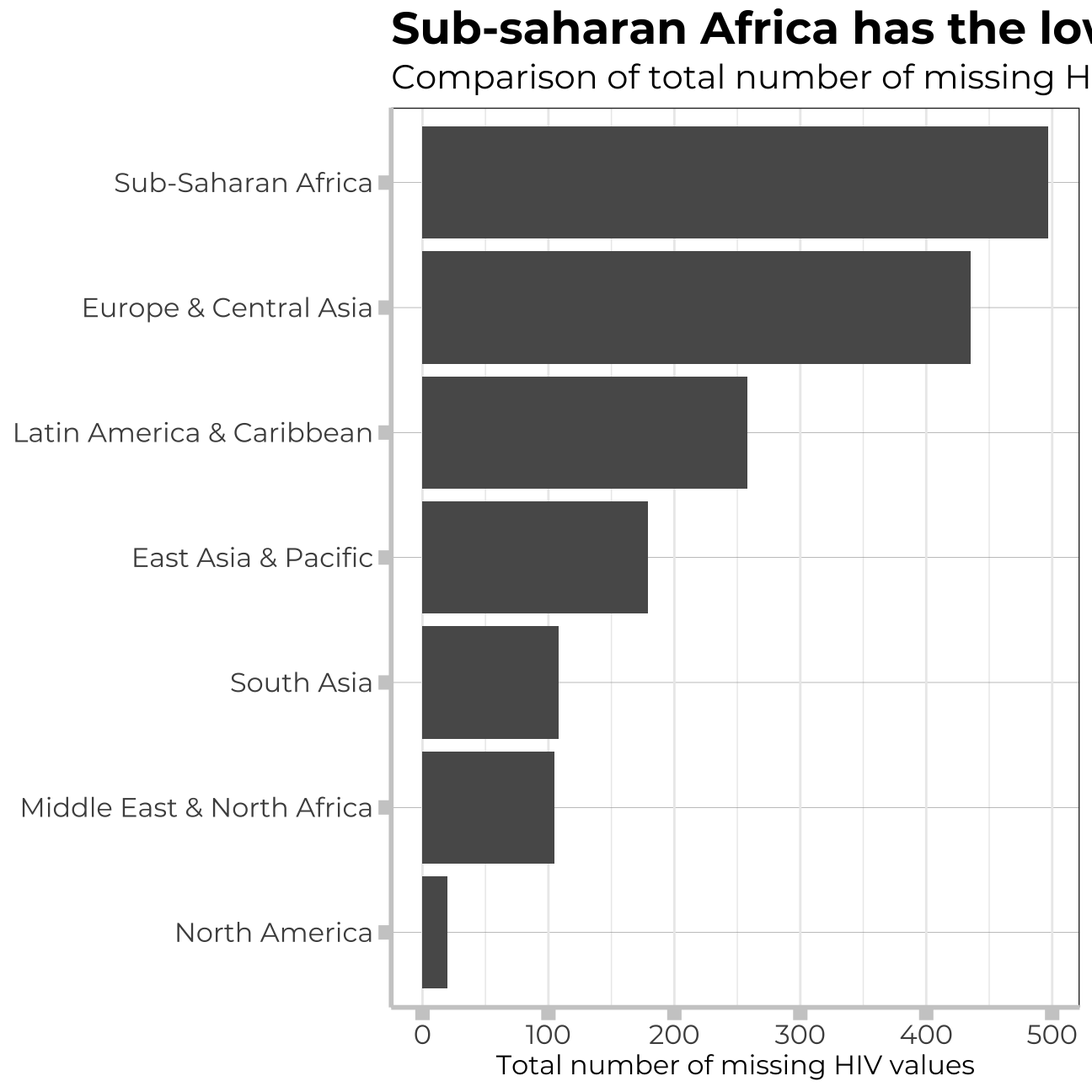
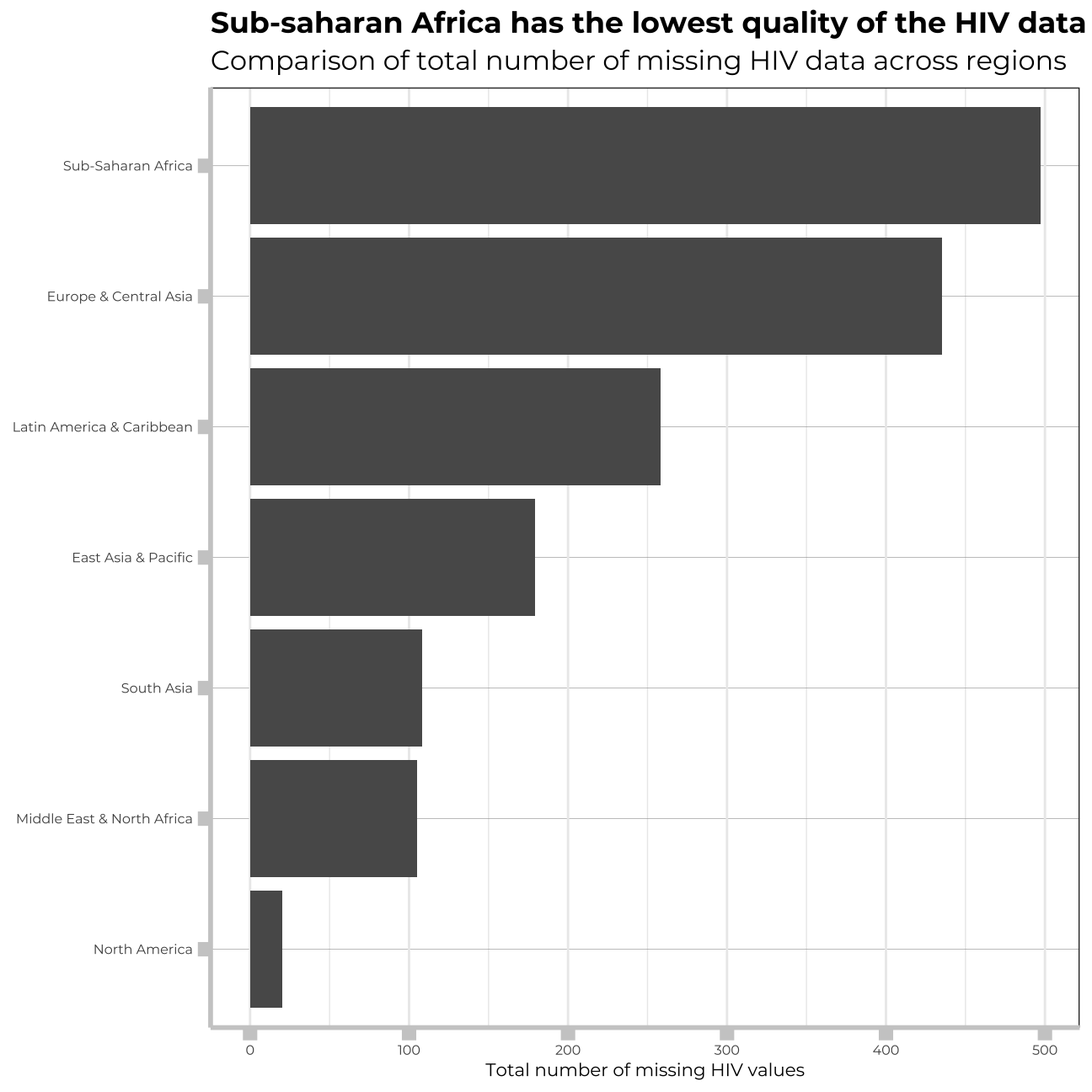
project 3_final

diff --git a/public/portfolio/project-03/index.html b/public/portfolio/project-03/index.html
@@ -1,7 +1,7 @@
 <!DOCTYPE html>
 <html lang="en-us"><head>
   <meta charset="utf-8" />
-  <title>GAPMINDER ANALYSIS - FERTILITY VS. EDUCATION and much more</title>
+  <title>GAPMINDER DATA ANALYSIS</title>
 
   <!-- mobile responsive meta -->
   <meta name="viewport" content="width=device-width, initial-scale=1" />
@@ -95,7 +95,7 @@
       <div class="col-lg-8 mx-auto">
         <div class="site-project-single">
           <h1>
-            GAPMINDER ANALYSIS - FERTILITY VS. EDUCATION and much more
+            GAPMINDER DATA ANALYSIS
           </h1>
           <div class="site-project-single-description">
             
@@ -204,7 +204,7 @@ geom_point() +
 geom_smooth(colour=&quot;blue&quot;) +
  theme_bw() +
   labs (
-    title = &quot;Over time the relationship between HIV prevalance and life expectancy is getting stronger - \nthe less HIV prevalence, the higher the life expectancy&quot;, 
+    title = &quot;Over time the relationship between HIV prevalance and \nlife expectancy is getting stronger - the less HIV prevalence, \nthe higher the life expectancy&quot;, 
     subtitle = &quot;Relationship between HIV prevalence and life expectancy&quot;, 
     x= &quot;Life expectancy&quot;, 
     y= &quot;HIV prevalence&quot;
@@ -215,15 +215,15 @@ geom_smooth(colour=&quot;blue&quot;) +
         axis.line = element_line(size = 1, colour = &quot;grey80&quot;),
         axis.ticks = element_line(size = 3,colour = &quot;grey80&quot;),
         axis.ticks.length = unit(.20, &quot;cm&quot;),
-        plot.title = element_text(color = &quot;black&quot;,size=15,face=&quot;bold&quot;, family= &quot;Montserrat&quot;),
+        plot.title = element_text(color = &quot;black&quot;,size=13,face=&quot;bold&quot;, family= &quot;Montserrat&quot;),
         plot.subtitle = element_text(color = &quot;black&quot;,size=12,face=&quot;plain&quot;, family= &quot;Montserrat&quot;),
-        axis.title.y = element_text(size = 12, angle = 90, family=&quot;Montserrat&quot;, face = &quot;plain&quot;),
+        axis.title.y = element_text(size = 8, angle = 90, family=&quot;Montserrat&quot;, face = &quot;plain&quot;),
         axis.text.y=element_text(family=&quot;Montserrat&quot;, size=7),
-        axis.title.x = element_text(size = 12, family=&quot;Montserrat&quot;, face = &quot;plain&quot;),
+        axis.title.x = element_text(size = 8, family=&quot;Montserrat&quot;, face = &quot;plain&quot;),
         axis.text.x=element_text(family=&quot;Montserrat&quot;, size=7),
         legend.text=element_text(family=&quot;Montserrat&quot;, size=7),
         legend.title=element_text(family=&quot;Montserrat&quot;, size=8, face=&quot;bold&quot;))</code></pre>
-<p><img src="/portfolio/project-03_files/figure-html/unnamed-chunk-1-1.png" width="1440" style="display: block; margin: auto;" /></p>
+<p><img src="/portfolio/project-03_files/figure-html/unnamed-chunk-1-1.png" width="672" style="display: block; margin: auto;" /></p>
 <p>As we can conclude from the graph, over years the relationship between HIV prevalence and life expectancy is getting stronger. In countries where HIV prevalance is the highest, it has risen for years, while life expectancy has not noticed such a significant growth. Also, we can notice, that for years, the Sub-Saharan Africa has had the biggest scale of the problem.</p>
 </div>
 <div id="what-is-the-relationship-between-fertility-rate-and-gdp-per-capita" class="section level2">
@@ -252,14 +252,14 @@ facet_wrap(~region,
         axis.line = element_line(size = 1, colour = &quot;grey80&quot;),
         axis.ticks = element_line(size = 3,colour = &quot;grey80&quot;),
         axis.ticks.length = unit(.20, &quot;cm&quot;),
-        plot.title = element_text(color = &quot;black&quot;,size=15,face=&quot;bold&quot;, family= &quot;Montserrat&quot;),
+        plot.title = element_text(color = &quot;black&quot;,size=13,face=&quot;bold&quot;, family= &quot;Montserrat&quot;),
         plot.subtitle = element_text(color = &quot;black&quot;,size=12,face=&quot;plain&quot;, family= &quot;Montserrat&quot;),
-        axis.title.y = element_text(size = 12, angle = 90, family=&quot;Montserrat&quot;, face = &quot;plain&quot;),
-        axis.text.y=element_text(family=&quot;Montserrat&quot;, size=7),
-        axis.title.x = element_text(size = 12, family=&quot;Montserrat&quot;, face = &quot;plain&quot;),
-        axis.text.x=element_text(family=&quot;Montserrat&quot;, size=7),
-        legend.text=element_text(family=&quot;Montserrat&quot;, size=7),
-        legend.title=element_text(family=&quot;Montserrat&quot;, size=8, face=&quot;bold&quot;),
+        axis.title.y = element_text(size = 8, angle = 90, family=&quot;Montserrat&quot;, face = &quot;plain&quot;),
+        axis.text.y=element_text(family=&quot;Montserrat&quot;, size=6),
+        axis.title.x = element_text(size = 8, family=&quot;Montserrat&quot;, face = &quot;plain&quot;),
+        axis.text.x=element_text(family=&quot;Montserrat&quot;, size=6),
+        legend.text=element_text(family=&quot;Montserrat&quot;, size=6),
+        legend.title=element_text(family=&quot;Montserrat&quot;, size=6, face=&quot;bold&quot;),
         legend.position = &quot;none&quot;)</code></pre>
 <p><img src="/portfolio/project-03_files/figure-html/unnamed-chunk-2-1.png" width="648" style="display: block; margin: auto;" />
 W can notice from the graph that in richer countries the fertility, tends to be lower. However, the important factor here is to reember about the free scales of the graphs presented. Even though, the same trend is visible across all the regions, it is much stronger in developed regions than in the poor ones.</p>
@@ -312,14 +312,14 @@ ggplot(hiv_longer_region, aes(y = reorder(region, total_NA_per_region), x = tota
         axis.line = element_line(size = 1, colour = &quot;grey80&quot;),
         axis.ticks = element_line(size = 3,colour = &quot;grey80&quot;),
         axis.ticks.length = unit(.20, &quot;cm&quot;),
-        plot.title = element_text(color = &quot;black&quot;,size=20,face=&quot;bold&quot;, family= &quot;Montserrat&quot;),
-        plot.subtitle = element_text(color = &quot;black&quot;,size=15,face=&quot;plain&quot;, family= &quot;Montserrat&quot;),
-        axis.title.y = element_text(size = 12, angle = 90, family=&quot;Montserrat&quot;, face = &quot;plain&quot;),
-        axis.text.y=element_text(family=&quot;Montserrat&quot;, size=12),
-        axis.title.x = element_text(size = 12, family=&quot;Montserrat&quot;, face = &quot;plain&quot;),
-        axis.text.x=element_text(family=&quot;Montserrat&quot;, size=12),
-        legend.text=element_text(family=&quot;Montserrat&quot;, size=12),
-        legend.title=element_text(family=&quot;Montserrat&quot;, size=12, face=&quot;bold&quot;))</code></pre>
+        plot.title = element_text(color = &quot;black&quot;,size=13,face=&quot;bold&quot;, family= &quot;Montserrat&quot;),
+        plot.subtitle = element_text(color = &quot;black&quot;,size=12,face=&quot;plain&quot;, family= &quot;Montserrat&quot;),
+        axis.title.y = element_text(size = 8, angle = 90, family=&quot;Montserrat&quot;, face = &quot;plain&quot;),
+        axis.text.y=element_text(family=&quot;Montserrat&quot;, size=6),
+        axis.title.x = element_text(size = 8, family=&quot;Montserrat&quot;, face = &quot;plain&quot;),
+        axis.text.x=element_text(family=&quot;Montserrat&quot;, size=6),
+        legend.text=element_text(family=&quot;Montserrat&quot;, size=6),
+        legend.title=element_text(family=&quot;Montserrat&quot;, size=6, face=&quot;bold&quot;))</code></pre>
 <p><img src="/portfolio/project-03_files/figure-html/unnamed-chunk-3-1.png" width="648" style="display: block; margin: auto;" />
 Again, the most developed regions in the world, are abundant with dasta regarding HIV. In regions, where the problem is the most severe, the data is missing in great amounts.</p>
 </div>
@@ -399,23 +399,23 @@ ggplot(biggest_improvers,
              scales = &quot;free&quot;) + 
   geom_col() + 
   labs(title = &quot;Leaders in Child Mortality reduction&quot;,
-       subtitle = &quot;Comparison of most improved countries in relative % change in child mortality rates, by region&quot;, 
+       subtitle = &quot;Comparison of most improved countries in relative % \nchange in child mortality rates, by region&quot;, 
        x = &quot;&quot;,
        y = &quot;Difference in mortality rate under 5 (%, 1990 vs 2011&quot;)+
- theme(panel.grid.major.y = element_line(color = &quot;gray60&quot;, size = 0.1),
-        strip.text= element_text(family=&quot;Montserrat&quot;, face = &quot;plain&quot;),
+ theme(panel.grid.major.y = element_line(color = &quot;gray60&quot;, size = 0.2),
+        strip.text= element_text(size=6,family=&quot;Montserrat&quot;, face = &quot;plain&quot;),
         panel.background = element_rect(fill = &quot;white&quot;, colour = &quot;white&quot;),
         axis.line = element_line(size = 1, colour = &quot;grey80&quot;),
         axis.ticks = element_line(size = 3,colour = &quot;grey80&quot;),
         axis.ticks.length = unit(.20, &quot;cm&quot;),
-        plot.title = element_text(color = &quot;black&quot;,size=15,face=&quot;bold&quot;, family= &quot;Montserrat&quot;),
-        plot.subtitle = element_text(color = &quot;black&quot;,size=12,face=&quot;plain&quot;, family= &quot;Montserrat&quot;),
-        axis.title.y = element_text(size = 12, angle = 90, family=&quot;Montserrat&quot;, face = &quot;plain&quot;),
-        axis.text.y=element_text(family=&quot;Montserrat&quot;, size=7),
-        axis.title.x = element_text(size = 12, family=&quot;Montserrat&quot;, face = &quot;plain&quot;),
-        axis.text.x=element_text(family=&quot;Montserrat&quot;, size=7),
-        legend.text=element_text(family=&quot;Montserrat&quot;, size=7),
-        legend.title=element_text(family=&quot;Montserrat&quot;, size=8, face=&quot;bold&quot;),
+        plot.title = element_text(color = &quot;black&quot;,size=13,face=&quot;bold&quot;, family= &quot;Montserrat&quot;),
+        plot.subtitle = element_text(color = &quot;black&quot;,size=10,face=&quot;plain&quot;, family= &quot;Montserrat&quot;),
+        axis.title.y = element_text(size = 7, angle = 90, family=&quot;Montserrat&quot;, face = &quot;plain&quot;),
+        axis.text.y=element_text(family=&quot;Montserrat&quot;, size=6),
+        axis.title.x = element_text(size = 7, family=&quot;Montserrat&quot;, face = &quot;plain&quot;),
+        axis.text.x=element_text(family=&quot;Montserrat&quot;, size=6),
+        legend.text=element_text(family=&quot;Montserrat&quot;, size=6),
+        legend.title=element_text(family=&quot;Montserrat&quot;, size=6, face=&quot;bold&quot;),
         legend.position = &quot;none&quot;)</code></pre>
 <p><img src="/portfolio/project-03_files/figure-html/unnamed-chunk-4-1.png" width="648" style="display: block; margin: auto;" /></p>
 <pre class="r"><code># Plot for top 5 worst improvement
@@ -428,23 +428,23 @@ ggplot(worst_improvers,
              scales = &quot;free&quot;) + 
   geom_col() + 
   labs(title = &quot;Laggards in Child Mortality Reduction&quot;,
-       subtitle = &quot;Comparison of least improved countries in relative % change in child mortality rates, by region&quot;,
+       subtitle = &quot;Comparison of least improved countries in relative % \nchange in child mortality rates, by region&quot;,
        x = &quot;&quot;, 
        y = &quot;Difference in mortality rate under 5 (%, 1990 vs 2011&quot;)+
 theme(panel.grid.major.y = element_line(color = &quot;gray60&quot;, size = 0.1),
-        strip.text= element_text(family=&quot;Montserrat&quot;, face = &quot;plain&quot;),
+        strip.text= element_text(size = 6,family=&quot;Montserrat&quot;, face = &quot;plain&quot;),
         panel.background = element_rect(fill = &quot;white&quot;, colour = &quot;white&quot;),
         axis.line = element_line(size = 1, colour = &quot;grey80&quot;),
         axis.ticks = element_line(size = 3,colour = &quot;grey80&quot;),
         axis.ticks.length = unit(.20, &quot;cm&quot;),
-        plot.title = element_text(color = &quot;black&quot;,size=15,face=&quot;bold&quot;, family= &quot;Montserrat&quot;),
-        plot.subtitle = element_text(color = &quot;black&quot;,size=12,face=&quot;plain&quot;, family= &quot;Montserrat&quot;),
-        axis.title.y = element_text(size = 12, angle = 90, family=&quot;Montserrat&quot;, face = &quot;plain&quot;),
-        axis.text.y=element_text(family=&quot;Montserrat&quot;, size=7),
-        axis.title.x = element_text(size = 12, family=&quot;Montserrat&quot;, face = &quot;plain&quot;),
-        axis.text.x=element_text(family=&quot;Montserrat&quot;, size=7),
-        legend.text=element_text(family=&quot;Montserrat&quot;, size=7),
-        legend.title=element_text(family=&quot;Montserrat&quot;, size=8, face=&quot;bold&quot;),
+        plot.title = element_text(color = &quot;black&quot;,size=13,face=&quot;bold&quot;, family= &quot;Montserrat&quot;),
+        plot.subtitle = element_text(color = &quot;black&quot;,size=10,face=&quot;plain&quot;, family= &quot;Montserrat&quot;),
+        axis.title.y = element_text(size = 7, angle = 90, family=&quot;Montserrat&quot;, face = &quot;plain&quot;),
+        axis.text.y=element_text(family=&quot;Montserrat&quot;, size=5),
+        axis.title.x = element_text(size = 7, family=&quot;Montserrat&quot;, face = &quot;plain&quot;),
+        axis.text.x=element_text(family=&quot;Montserrat&quot;, size=5),
+        legend.text=element_text(family=&quot;Montserrat&quot;, size=6),
+        legend.title=element_text(family=&quot;Montserrat&quot;, size=6, face=&quot;bold&quot;),
         legend.position = &quot;none&quot;)</code></pre>
 <p><img src="/portfolio/project-03_files/figure-html/unnamed-chunk-4-2.png" width="648" style="display: block; margin: auto;" /></p>
 </div>

diff --git a/content/portfolio/project-03.html b/content/portfolio/project-03.html
@@ -4,7 +4,7 @@ category:
 date: "2020-09-19T15:58:10+06:00"
 image: images/projects/gapminder1.jpg
 project_images:
-title: GAPMINDER ANALYSIS - FERTILITY VS. EDUCATION and much more
+title: GAPMINDER DATA ANALYSIS
 type: portfolio
 ---
 
@@ -113,7 +113,7 @@ geom_point() +
 geom_smooth(colour=&quot;blue&quot;) +
  theme_bw() +
   labs (
-    title = &quot;Over time the relationship between HIV prevalance and life expectancy is getting stronger - \nthe less HIV prevalence, the higher the life expectancy&quot;, 
+    title = &quot;Over time the relationship between HIV prevalance and \nlife expectancy is getting stronger - the less HIV prevalence, \nthe higher the life expectancy&quot;, 
     subtitle = &quot;Relationship between HIV prevalence and life expectancy&quot;, 
     x= &quot;Life expectancy&quot;, 
     y= &quot;HIV prevalence&quot;
@@ -124,15 +124,15 @@ geom_smooth(colour=&quot;blue&quot;) +
         axis.line = element_line(size = 1, colour = &quot;grey80&quot;),
         axis.ticks = element_line(size = 3,colour = &quot;grey80&quot;),
         axis.ticks.length = unit(.20, &quot;cm&quot;),
-        plot.title = element_text(color = &quot;black&quot;,size=15,face=&quot;bold&quot;, family= &quot;Montserrat&quot;),
+        plot.title = element_text(color = &quot;black&quot;,size=13,face=&quot;bold&quot;, family= &quot;Montserrat&quot;),
         plot.subtitle = element_text(color = &quot;black&quot;,size=12,face=&quot;plain&quot;, family= &quot;Montserrat&quot;),
-        axis.title.y = element_text(size = 12, angle = 90, family=&quot;Montserrat&quot;, face = &quot;plain&quot;),
+        axis.title.y = element_text(size = 8, angle = 90, family=&quot;Montserrat&quot;, face = &quot;plain&quot;),
         axis.text.y=element_text(family=&quot;Montserrat&quot;, size=7),
-        axis.title.x = element_text(size = 12, family=&quot;Montserrat&quot;, face = &quot;plain&quot;),
+        axis.title.x = element_text(size = 8, family=&quot;Montserrat&quot;, face = &quot;plain&quot;),
         axis.text.x=element_text(family=&quot;Montserrat&quot;, size=7),
         legend.text=element_text(family=&quot;Montserrat&quot;, size=7),
         legend.title=element_text(family=&quot;Montserrat&quot;, size=8, face=&quot;bold&quot;))</code></pre>
-<p><img src="/portfolio/project-03_files/figure-html/unnamed-chunk-1-1.png" width="1440" style="display: block; margin: auto;" /></p>
+<p><img src="/portfolio/project-03_files/figure-html/unnamed-chunk-1-1.png" width="672" style="display: block; margin: auto;" /></p>
 <p>As we can conclude from the graph, over years the relationship between HIV prevalence and life expectancy is getting stronger. In countries where HIV prevalance is the highest, it has risen for years, while life expectancy has not noticed such a significant growth. Also, we can notice, that for years, the Sub-Saharan Africa has had the biggest scale of the problem.</p>
 </div>
 <div id="what-is-the-relationship-between-fertility-rate-and-gdp-per-capita" class="section level2">
@@ -161,14 +161,14 @@ facet_wrap(~region,
         axis.line = element_line(size = 1, colour = &quot;grey80&quot;),
         axis.ticks = element_line(size = 3,colour = &quot;grey80&quot;),
         axis.ticks.length = unit(.20, &quot;cm&quot;),
-        plot.title = element_text(color = &quot;black&quot;,size=15,face=&quot;bold&quot;, family= &quot;Montserrat&quot;),
+        plot.title = element_text(color = &quot;black&quot;,size=13,face=&quot;bold&quot;, family= &quot;Montserrat&quot;),
         plot.subtitle = element_text(color = &quot;black&quot;,size=12,face=&quot;plain&quot;, family= &quot;Montserrat&quot;),
-        axis.title.y = element_text(size = 12, angle = 90, family=&quot;Montserrat&quot;, face = &quot;plain&quot;),
-        axis.text.y=element_text(family=&quot;Montserrat&quot;, size=7),
-        axis.title.x = element_text(size = 12, family=&quot;Montserrat&quot;, face = &quot;plain&quot;),
-        axis.text.x=element_text(family=&quot;Montserrat&quot;, size=7),
-        legend.text=element_text(family=&quot;Montserrat&quot;, size=7),
-        legend.title=element_text(family=&quot;Montserrat&quot;, size=8, face=&quot;bold&quot;),
+        axis.title.y = element_text(size = 8, angle = 90, family=&quot;Montserrat&quot;, face = &quot;plain&quot;),
+        axis.text.y=element_text(family=&quot;Montserrat&quot;, size=6),
+        axis.title.x = element_text(size = 8, family=&quot;Montserrat&quot;, face = &quot;plain&quot;),
+        axis.text.x=element_text(family=&quot;Montserrat&quot;, size=6),
+        legend.text=element_text(family=&quot;Montserrat&quot;, size=6),
+        legend.title=element_text(family=&quot;Montserrat&quot;, size=6, face=&quot;bold&quot;),
         legend.position = &quot;none&quot;)</code></pre>
 <p><img src="/portfolio/project-03_files/figure-html/unnamed-chunk-2-1.png" width="648" style="display: block; margin: auto;" />
 W can notice from the graph that in richer countries the fertility, tends to be lower. However, the important factor here is to reember about the free scales of the graphs presented. Even though, the same trend is visible across all the regions, it is much stronger in developed regions than in the poor ones.</p>
@@ -221,14 +221,14 @@ ggplot(hiv_longer_region, aes(y = reorder(region, total_NA_per_region), x = tota
         axis.line = element_line(size = 1, colour = &quot;grey80&quot;),
         axis.ticks = element_line(size = 3,colour = &quot;grey80&quot;),
         axis.ticks.length = unit(.20, &quot;cm&quot;),
-        plot.title = element_text(color = &quot;black&quot;,size=20,face=&quot;bold&quot;, family= &quot;Montserrat&quot;),
-        plot.subtitle = element_text(color = &quot;black&quot;,size=15,face=&quot;plain&quot;, family= &quot;Montserrat&quot;),
-        axis.title.y = element_text(size = 12, angle = 90, family=&quot;Montserrat&quot;, face = &quot;plain&quot;),
-        axis.text.y=element_text(family=&quot;Montserrat&quot;, size=12),
-        axis.title.x = element_text(size = 12, family=&quot;Montserrat&quot;, face = &quot;plain&quot;),
-        axis.text.x=element_text(family=&quot;Montserrat&quot;, size=12),
-        legend.text=element_text(family=&quot;Montserrat&quot;, size=12),
-        legend.title=element_text(family=&quot;Montserrat&quot;, size=12, face=&quot;bold&quot;))</code></pre>
+        plot.title = element_text(color = &quot;black&quot;,size=13,face=&quot;bold&quot;, family= &quot;Montserrat&quot;),
+        plot.subtitle = element_text(color = &quot;black&quot;,size=12,face=&quot;plain&quot;, family= &quot;Montserrat&quot;),
+        axis.title.y = element_text(size = 8, angle = 90, family=&quot;Montserrat&quot;, face = &quot;plain&quot;),
+        axis.text.y=element_text(family=&quot;Montserrat&quot;, size=6),
+        axis.title.x = element_text(size = 8, family=&quot;Montserrat&quot;, face = &quot;plain&quot;),
+        axis.text.x=element_text(family=&quot;Montserrat&quot;, size=6),
+        legend.text=element_text(family=&quot;Montserrat&quot;, size=6),
+        legend.title=element_text(family=&quot;Montserrat&quot;, size=6, face=&quot;bold&quot;))</code></pre>
 <p><img src="/portfolio/project-03_files/figure-html/unnamed-chunk-3-1.png" width="648" style="display: block; margin: auto;" />
 Again, the most developed regions in the world, are abundant with dasta regarding HIV. In regions, where the problem is the most severe, the data is missing in great amounts.</p>
 </div>
@@ -308,23 +308,23 @@ ggplot(biggest_improvers,
              scales = &quot;free&quot;) + 
   geom_col() + 
   labs(title = &quot;Leaders in Child Mortality reduction&quot;,
-       subtitle = &quot;Comparison of most improved countries in relative % change in child mortality rates, by region&quot;, 
+       subtitle = &quot;Comparison of most improved countries in relative % \nchange in child mortality rates, by region&quot;, 
        x = &quot;&quot;,
        y = &quot;Difference in mortality rate under 5 (%, 1990 vs 2011&quot;)+
- theme(panel.grid.major.y = element_line(color = &quot;gray60&quot;, size = 0.1),
-        strip.text= element_text(family=&quot;Montserrat&quot;, face = &quot;plain&quot;),
+ theme(panel.grid.major.y = element_line(color = &quot;gray60&quot;, size = 0.2),
+        strip.text= element_text(size=6,family=&quot;Montserrat&quot;, face = &quot;plain&quot;),
         panel.background = element_rect(fill = &quot;white&quot;, colour = &quot;white&quot;),
         axis.line = element_line(size = 1, colour = &quot;grey80&quot;),
         axis.ticks = element_line(size = 3,colour = &quot;grey80&quot;),
         axis.ticks.length = unit(.20, &quot;cm&quot;),
-        plot.title = element_text(color = &quot;black&quot;,size=15,face=&quot;bold&quot;, family= &quot;Montserrat&quot;),
-        plot.subtitle = element_text(color = &quot;black&quot;,size=12,face=&quot;plain&quot;, family= &quot;Montserrat&quot;),
-        axis.title.y = element_text(size = 12, angle = 90, family=&quot;Montserrat&quot;, face = &quot;plain&quot;),
-        axis.text.y=element_text(family=&quot;Montserrat&quot;, size=7),
-        axis.title.x = element_text(size = 12, family=&quot;Montserrat&quot;, face = &quot;plain&quot;),
-        axis.text.x=element_text(family=&quot;Montserrat&quot;, size=7),
-        legend.text=element_text(family=&quot;Montserrat&quot;, size=7),
-        legend.title=element_text(family=&quot;Montserrat&quot;, size=8, face=&quot;bold&quot;),
+        plot.title = element_text(color = &quot;black&quot;,size=13,face=&quot;bold&quot;, family= &quot;Montserrat&quot;),
+        plot.subtitle = element_text(color = &quot;black&quot;,size=10,face=&quot;plain&quot;, family= &quot;Montserrat&quot;),
+        axis.title.y = element_text(size = 7, angle = 90, family=&quot;Montserrat&quot;, face = &quot;plain&quot;),
+        axis.text.y=element_text(family=&quot;Montserrat&quot;, size=6),
+        axis.title.x = element_text(size = 7, family=&quot;Montserrat&quot;, face = &quot;plain&quot;),
+        axis.text.x=element_text(family=&quot;Montserrat&quot;, size=6),
+        legend.text=element_text(family=&quot;Montserrat&quot;, size=6),
+        legend.title=element_text(family=&quot;Montserrat&quot;, size=6, face=&quot;bold&quot;),
         legend.position = &quot;none&quot;)</code></pre>
 <p><img src="/portfolio/project-03_files/figure-html/unnamed-chunk-4-1.png" width="648" style="display: block; margin: auto;" /></p>
 <pre class="r"><code># Plot for top 5 worst improvement
@@ -337,23 +337,23 @@ ggplot(worst_improvers,
              scales = &quot;free&quot;) + 
   geom_col() + 
   labs(title = &quot;Laggards in Child Mortality Reduction&quot;,
-       subtitle = &quot;Comparison of least improved countries in relative % change in child mortality rates, by region&quot;,
+       subtitle = &quot;Comparison of least improved countries in relative % \nchange in child mortality rates, by region&quot;,
        x = &quot;&quot;, 
        y = &quot;Difference in mortality rate under 5 (%, 1990 vs 2011&quot;)+
 theme(panel.grid.major.y = element_line(color = &quot;gray60&quot;, size = 0.1),
-        strip.text= element_text(family=&quot;Montserrat&quot;, face = &quot;plain&quot;),
+        strip.text= element_text(size = 6,family=&quot;Montserrat&quot;, face = &quot;plain&quot;),
         panel.background = element_rect(fill = &quot;white&quot;, colour = &quot;white&quot;),
         axis.line = element_line(size = 1, colour = &quot;grey80&quot;),
         axis.ticks = element_line(size = 3,colour = &quot;grey80&quot;),
         axis.ticks.length = unit(.20, &quot;cm&quot;),
-        plot.title = element_text(color = &quot;black&quot;,size=15,face=&quot;bold&quot;, family= &quot;Montserrat&quot;),
-        plot.subtitle = element_text(color = &quot;black&quot;,size=12,face=&quot;plain&quot;, family= &quot;Montserrat&quot;),
-        axis.title.y = element_text(size = 12, angle = 90, family=&quot;Montserrat&quot;, face = &quot;plain&quot;),
-        axis.text.y=element_text(family=&quot;Montserrat&quot;, size=7),
-        axis.title.x = element_text(size = 12, family=&quot;Montserrat&quot;, face = &quot;plain&quot;),
-        axis.text.x=element_text(family=&quot;Montserrat&quot;, size=7),
-        legend.text=element_text(family=&quot;Montserrat&quot;, size=7),
-        legend.title=element_text(family=&quot;Montserrat&quot;, size=8, face=&quot;bold&quot;),
+        plot.title = element_text(color = &quot;black&quot;,size=13,face=&quot;bold&quot;, family= &quot;Montserrat&quot;),
+        plot.subtitle = element_text(color = &quot;black&quot;,size=10,face=&quot;plain&quot;, family= &quot;Montserrat&quot;),
+        axis.title.y = element_text(size = 7, angle = 90, family=&quot;Montserrat&quot;, face = &quot;plain&quot;),
+        axis.text.y=element_text(family=&quot;Montserrat&quot;, size=5),
+        axis.title.x = element_text(size = 7, family=&quot;Montserrat&quot;, face = &quot;plain&quot;),
+        axis.text.x=element_text(family=&quot;Montserrat&quot;, size=5),
+        legend.text=element_text(family=&quot;Montserrat&quot;, size=6),
+        legend.title=element_text(family=&quot;Montserrat&quot;, size=6, face=&quot;bold&quot;),
         legend.position = &quot;none&quot;)</code></pre>
 <p><img src="/portfolio/project-03_files/figure-html/unnamed-chunk-4-2.png" width="648" style="display: block; margin: auto;" /></p>
 </div>

diff --git a/public/index.html b/public/index.html
@@ -169,7 +169,7 @@
             </div>
             <div class="site-project-item-content">
               <span>Applied Statistics</span>
-              <h3>GAPMINDER ANALYSIS - FERTILITY VS. EDUCATION and much more</h3>
+              <h3>GAPMINDER DATA ANALYSIS</h3>
               <a href="/portfolio/project-03/" class="read-more">view project</a>
             </div>
           </div>

diff --git a/public/portfolio/index.html b/public/portfolio/index.html
@@ -133,7 +133,7 @@
           </div>
           <div class="site-project-item-content">
             <span>Applied Statistics</span>
-            <h3>GAPMINDER ANALYSIS - FERTILITY VS. EDUCATION and much more</h3>
+            <h3>GAPMINDER DATA ANALYSIS</h3>
             <a href="/portfolio/project-03/" class="read-more">view project</a>
           </div>
         </div>
